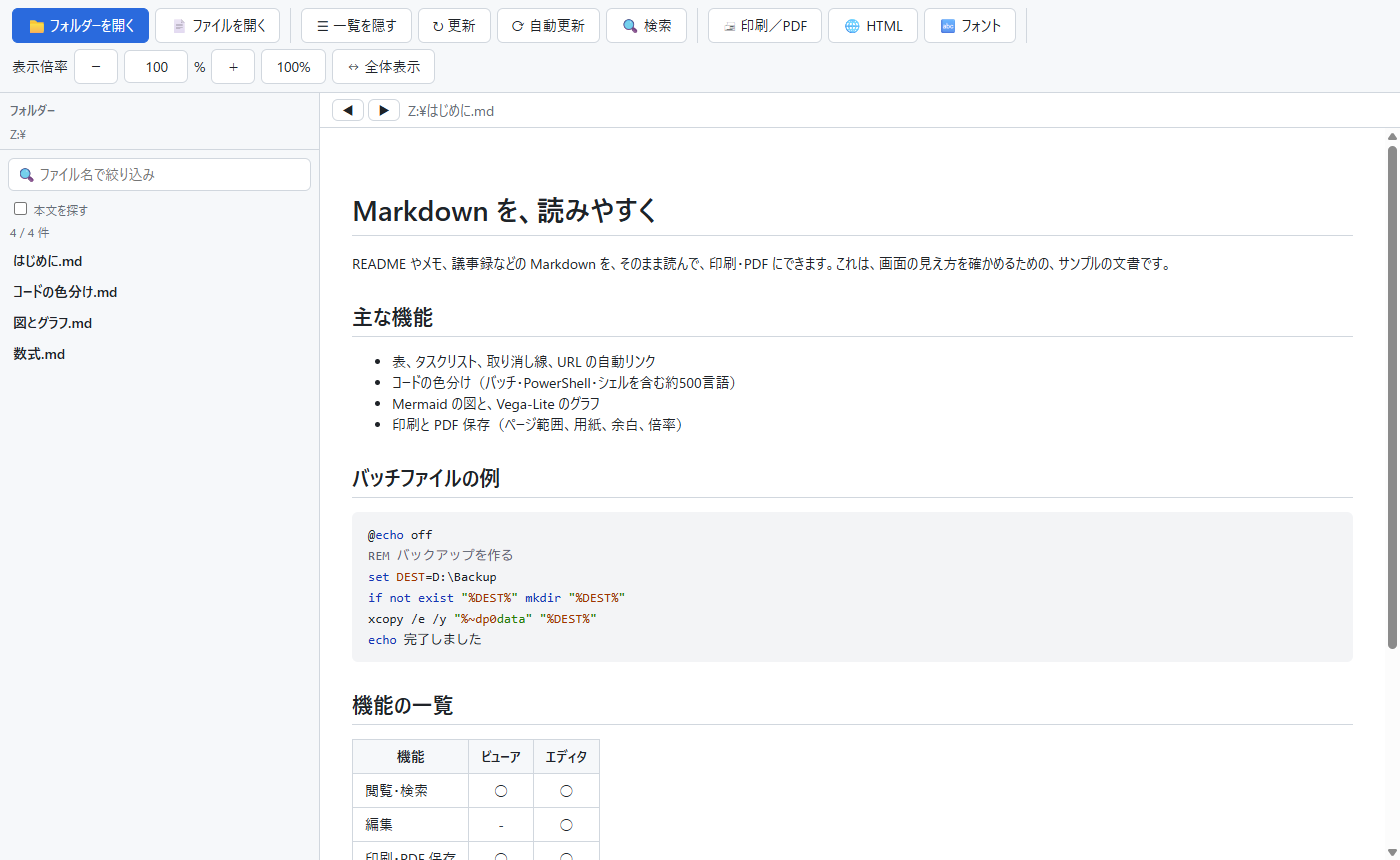
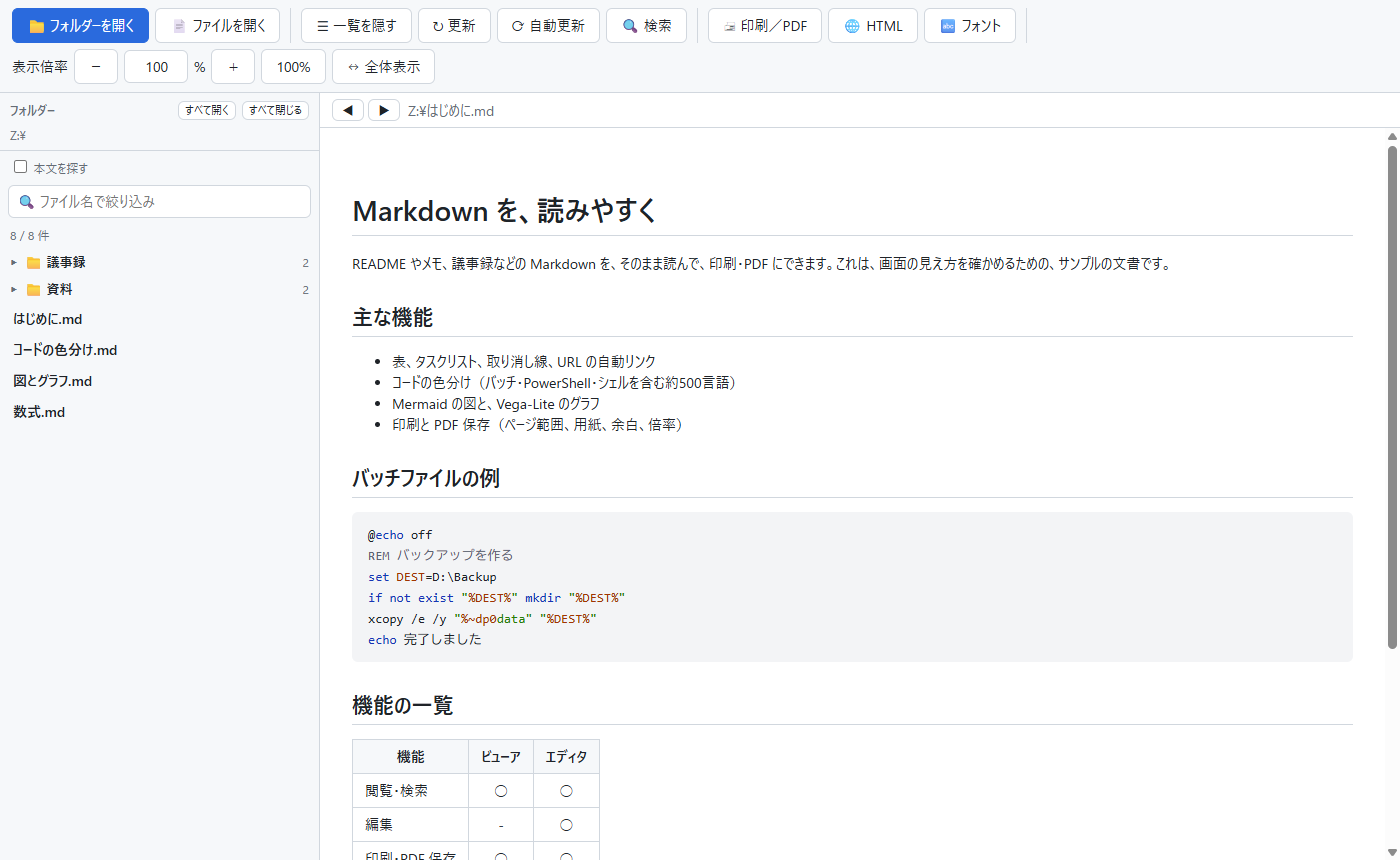
README のスクリーンショットを撮り直した（文書一覧のツリー表示・開閉ボタンの新しい配置）
- サンプルに、サブフォルダー（議事録・資料）を足し、一覧の木が写るようにした
- tools/make_screenshots.ps1 は、サンプルのサブフォルダーも写す

Changed region(s): [[0.0, 0.1512, 0.1229, 0.4837], [0.1229, 0.1209, 0.215, 0.1512]]

diff --git a/docs/sample/議事録/第1回理事会.md b/docs/sample/議事録/第1回理事会.md
@@ -1,0 +1,6 @@
+# 理事会の議事録（サンプル）
+
+画面の見え方を確かめるための、サンプルの文書です。
+
+- 議題1: 修繕計画について
+- 議題2: 会計報告

diff --git a/docs/sample/資料/用語集.md b/docs/sample/資料/用語集.md
@@ -1,0 +1,5 @@
+# 用語集（サンプル）
+
+| 用語 | 意味 |
+| --- | --- |
+| 細則 | 規約を補う決まり |

diff --git a/docs/sample/議事録/第2回理事会.md b/docs/sample/議事録/第2回理事会.md
@@ -1,0 +1,3 @@
+# 第2回理事会（サンプル）
+
+- 決まったこと: 次回までに見積りを集める

diff --git a/docs/sample/資料/参考リンク.md b/docs/sample/資料/参考リンク.md
@@ -1,0 +1,3 @@
+# 参考リンク（サンプル）
+
+- [Markdown の書き方](https://example.com)
